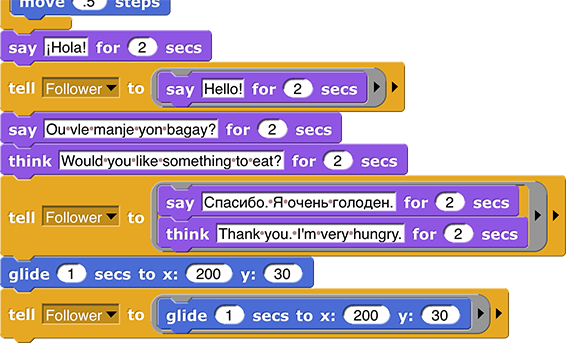
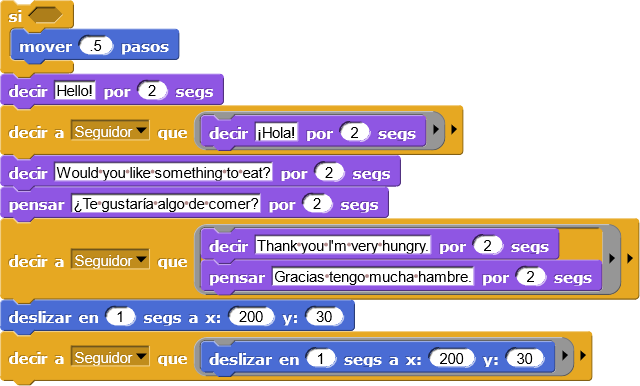
Espanol: Madelen translated Unit 1, Lab 5, Pages 1 & 2

diff --git a/cur/programming/1-introduction/5-follow-the-leader/2-sprite-interaction.es.html b/cur/programming/1-introduction/5-follow-the-leader/2-sprite-interaction.es.html
@@ -6,7 +6,7 @@
 		<script type="text/javascript" src="/bjc-r/utilities/gifffer.min.js"></script>
 		<script type="text/javascript">window.onload = function() {Gifffer();}</script>
         <link rel="stylesheet" type="text/css" href="/bjc-r/css/bjc-gifffer.css">
-        <title>Unidad 1 Lab 5: Siguiendo al Leader, Página 2</title>
+        <title>Unidad 1 Lab 5: Siguiendo al Líder, Página 2</title>
 	</head>
 
 	<body>
@@ -23,12 +23,12 @@
         <div class="forYouToDo" id="first">
             <ol>
 				<li>
-                    Cambie el código de <strong>Follower</strong> para que apunte hacia <strong>Leader</strong> solo hasta que toque <strong>Leader</strong>. (Las siguientes instrucciones muestran cómo).
+                    Cambie el código de <strong>Seguidor</strong> para que apunte hacia <strong>Líder</strong> solo hasta que toque <strong>Líder</strong>. (Las siguientes instrucciones muestran cómo).
 					  <ol>
-                    	<li>Seleccione <strong>Follower</strong> haciendo clic en su botón debajo del escenario.</li>
-                        <li>Reemplace el bloque <code>forever</code> con un bloque <code>repeat until</code>.</li>
+                    	<li>Seleccione <strong>Seguidor</strong> haciendo clic en su botón debajo del escenario.</li>
+                        <li>Reemplace el bloque <code>por siempre</code> con un bloque <code>repetir hasta que</code>.</li>
                         <li>
-                        	Arrastre <img src="/bjc-r/img/blocks/touching.es.png" alt="touching ()?" title="tocando ()?"> en el espacio hexagonal en el bloque <code>repetir until</code>. Configúrelo para que se repita hasta que <code>touching</code> <strong>Leader</strong>.<br />
+                        	Arrastre <img src="/bjc-r/img/1-introduction/touching.es.png" alt="touching ()?" title="tocando ()?"> en el espacio hexagonal en el bloque <code>repetir hasta que</code>. Configúrelo para que se repita hasta que esté <code>tocando</code> <strong>Líder</strong>.<br />
                             <div class="endnote">
                                 <div class="commentBig">Video needs to be rebuilt with new sprite names. --MF, 8/19/19</div>
                                 <a href="#hint-touching" data-toggle="collapse" title="Click for a video of this code being built.">Haga clic para ver un video de este código en construcción.</a>
@@ -39,19 +39,19 @@
                         </li>
                     </ol>
                 </li>
-				<li>Haz lo mismo con <strong>Leader</strong>. Cambie su código para seguir su mouse solo hasta que esté <code>tocando</code> <strong>Follower</strong>.</li>
+				<li>Haz lo mismo con <strong>Líder</strong>. Cambie su código para seguir su ratón solo hasta que esté <code>tocando</code> <strong>Seguidor</strong>.</li>
                 <li>Pruebe su programa para ver si hace lo que quiere:
                 	<ul>
-                    	<li>Al hacer clic en <img src="/bjc-r/img/1-introduction/green-flag_button.es.png" style="height:1.6em;" alt="botón de bandera verde" title="botón de bandera verde"/>, <strong>Leader</strong> (el gris) debe seguir su mouse y <strong>Follower</strong> debe seguir girando hacia la cara <strong>Leader</strong>.</li>
-                        <li>Si acercas a <strong>Leader</strong> lo suficiente como para tocar a <strong>Follower</strong>, ambos sprites deberían dejar de moverse.</li>
+                    	<li>Al hacer clic en <img src="/bjc-r/img/1-introduction/green-flag_button.es.png" style="height:1.6em;" alt="botón de bandera verde" title="botón de bandera verde"/>, <strong>Líder</strong> (el gris) debe seguir su ratón y <strong>Seguidor</strong> debe seguir girando hacia la cara <strong>Líder</strong>.</li>
+                        <li>Si acercas a <strong>Líder</strong> lo suficiente como para tocar a <strong>Seguidor</strong>, ambos sprites deberían dejar de moverse.</li>
                     </ul>
                 </li>
                 <li>
-                	Hasta ahora, <strong>Follower</strong> <em>apunta</em> hacia <strong>Leader</strong>, pero no <em>se mueve</em> hacia él.
+                	Hasta ahora, <strong>Seguidor</strong> <em>apunta</em> hacia <strong>Líder</strong>, pero no <em>se mueve</em> hacia él.
                     <ol>
                         <li>
-                            Agregue una línea de código a la secuencia de comandos de <strong>Follower</strong> para que persiga a <strong>Leader</strong>. Aquí está la idea:<br />
-                            <div class="sidenote">Rellene el espacio de entrada en el bloque <code>mover</code> con un número pequeño para que <strong>Follower</strong> no atrape a <strong>Leader</strong> demasiado rápido.</div>
+                            Agregue una línea de código a la secuencia de comandos de <strong>Seguidor</strong> para que persiga a <strong>Líder</strong>. Aquí está la idea:<br />
+                            <div class="sidenote">Rellene el espacio de entrada en el bloque <code>mover</code> con un número pequeño para que <strong>Seguidor</strong> no atrape a <strong>Líder</strong> demasiado rápido.</div>
                             <img class="indent" src="/bjc-r/img/1-introduction/move-tiny.es.png" alt="when green flag clicked:
 repeat until (touching (Leader)?)
 {
@@ -80,19 +80,19 @@ repeat until (touching (Leader)?)
         <div class="examFullWidth">
             <div class="comment">AAP-2.K.3</div>
             <div class="sidenoteBig">
-                <div class="pseudop">El lenguaje utilizado en el examen AP no permite espacios en los nombres de las entradas (como <var>número de peces</var>) o en los procedimientos definidos por el programador (como <code>mouse y</code>, que no está integrado en su idioma). Así que este ejemplo los traduce a <pre class="inline">numFish</pre> y <pre class="inline">MouseY()</pre>.</div>
-                <div class="pseudop">El motivo de <pre class="inline">()</pre> o cuadro después de <pre class="inline">MouseY</pre> es que <pre class="inline">MouseY()</pre > es una llamada de procedimiento a pesar de que no toma ninguna entrada. </div>
+                <div class="pseudop">El lenguaje utilizado en el examen AP no permite espacios en los nombres de las entradas (como <var>número de peces</var>) o en los procedimientos definidos por el programador (como <code>ratón y</code>, que no está integrado en su idioma). Así que este ejemplo los traduce a <pre class="inline">numPeces</pre> y <pre class="inline">RatónY()</pre>.</div>
+                <div class="pseudop">El motivo de <pre class="inline">()</pre> o cuadro después de <pre class="inline">RatónY</pre> es que <pre class="inline">RatónY()</pre > es una llamada de procedimiento a pesar de que no toma ninguna entrada. </div>
             </div>
             <p>
                 La secuencia de comandost<br/>
                 <img class="indent" src="/bjc-r/img/1-introduction/example-repeat-until.es.png" alt="repeat until (mouse y < 0) {say (number of fish)}" title="repeat until (mouse y < 0) {say (number of fish)}" /><br />
                 se escribiría como<br />
                 <div class="commentBig">I worry that the mouse Y procedure call block formatting might be wrong because we don't yet know what the correct APblocktran form of a procedure call will be. Waiting for the new exam reference sheet. --MF, 3/1/19<p>TODO: change mouseY() to camelCase <em>and</em> edit image to use a box instead of () after mouseY. --MF, 8/27/19</p></div>
-                <div class="pre-container indent"><pre>REPETIR UNTIL (MouseY() &lt; 0)
+                <div class="pre-container indent"><pre>REPETIR HASTA QUE (RatónY() &lt; 0)
 {
-    DISPLAY(numFish)
+    DISPLAY(numPeces)
 }</pre></div>
-                or
+                o
                 <img class="inline" src="/bjc-r/img/1-introduction/repeat-until-blocktran.es.png" alt="a gray rounded rectangle containing all of the following: on the first line, first the words 'REPEAT UNTIL' in all caps and then a smaller gray rounded rectangle containing 'MouseY () &lt; 0' and on the second line, a white rounded rectangle with a smaller white rounded rectangle inside that contains first the word 'DISPLAY' in all caps and then a smaller white rectangle containing 'numFish'" title="a gray rounded rectangle containing all of the following: on the first line, first the words 'REPEAT UNTIL' in all caps and then a smaller gray rounded rectangle containing 'MouseY () &lt; 0' and on the second line, a white rounded rectangle with a smaller white rounded rectangle inside that contains first the word 'DISPLAY' in all caps and then a smaller white rectangle containing 'numFish'" />
             </p>
             <p>Recuerda, no necesitas aprender a escribir el idioma inventado que se usa en el examen AP. Solo tienes que ser capaz de leer y responder preguntas al respecto.</p>
@@ -103,8 +103,8 @@ repeat until (touching (Leader)?)
 				<li>Pruebe su programa varias veces. </li>
             	<img class="inline" src="/bjc-r/img/icons/pair-programming-swap.es.png" alt="Pair Programming Swap" title="Pair Programming Swap" />
                 <li>
-                	<p>En este momento, cuando los duendes se encuentran, simplemente se detienen. Haz que tengan una conversación cuando se detengan. Puede hacerlo agregando un código como este a la secuencia de comandos de <strong>Leader</strong>. Invente su propia conversación. Puede utilizar cualquier idioma que pueda escribir.</p>
-                    <div class="sidenoteBig"><strong>Leader</strong> hace las cosas por sí mismo. También le dice a <strong>Follower</strong> qué hacer y cuándo hacerlo. Este código pone a <strong>Leader</strong> a cargo de <strong>Follower</strong>.</div>
+                	<p>En este momento, cuando los duendes se encuentran, simplemente se detienen. Haz que tengan una conversación cuando se detengan. Puede hacerlo agregando un código como este a la secuencia de comandos de <strong>Líder</strong>. Invente su propia conversación. Puede utilizar cualquier idioma que pueda escribir.</p>
+                    <div class="sidenoteBig"><strong>Líder</strong> hace las cosas por sí mismo. También le dice a <strong>Seguidor</strong> qué hacer y cuándo hacerlo. Este código pone a <strong>Líder</strong> a cargo de <strong>Seguidor</strong>.</div>
                     <div class="vocab">
                         <div class="todo">CRD-2.B.2, AAP-2.B.2, AAP-2.B.6</div>
                         <p>Un <strong>segmento de código</strong> es una secuencia de instrucciones conectadas que llevan a cabo una acción determinada, como la que se muestra a la izquierda, que anima una conversación. Las instrucciones en el segmento de código se llevan a cabo en orden, de arriba a abajo.</p>

diff --git a/cur/programming/1-introduction/5-follow-the-leader/1-following-sprites.es.html b/cur/programming/1-introduction/5-follow-the-leader/1-following-sprites.es.html
@@ -10,11 +10,11 @@
     </head>
     
 	<body>    
-		<h2>Sprite siguiendo al ratón</h2>
+		<h2>Sprite Siguiendo al Ratón</h2>
         <div class="learn">
             <p>En muchos programas, los elementos visuales en la pantalla deben interactuar: seguirse, evitarse, reaccionar de cierta manera cuando se encuentran, etc. <strong>En esta práctica de laboratorio</strong>, programará <em >dos</em> sprites. Un sprite seguirá a tu ratón. El otro sprite perseguirá al primero. Cuando se reúnan, tendrán una breve conversación.</p>
             <img class="indent" data-gifffer="/bjc-r/img/1-introduction/leader-follower-animation.gif" alt="animation of a cartoon tiger chasing a cartoon bat that is following the mouse pointer" title="animation of a cartoon tiger chasing a cartoon bat that is following the mouse pointer"/>
-            <p><strong>En esta página,</strong> programarás el primer sprite para que siga a tu mouse y programarás el segundo sprite para que apunte en la dirección del primer sprite en preparación para seguirlo.</p>
+            <p><strong>En esta página,</strong> programarás el primer sprite para que siga a tu ratón y programarás el segundo sprite para que apunte en la dirección del primer sprite en preparación para seguirlo.</p>
         </div>
 		
 		<div class="atwork">
@@ -23,25 +23,28 @@
 			<p><a href="https://www.lanacion.com.ar/tecnologia/los-20-latinos-mas-influyentes-en-tecnologia-de-2017-segun-cnet-nid2066888/" title="Article: Los 20 Latinos Más Influyentes en Tecnología" target="_blank">Article: Los 20 Latinos Más Influyentes en Tecnología</a> (<a href="https://www-lanacion-com-ar.translate.goog/tecnologia/los-20-latinos-mas-influyentes-en-tecnologia-de-2017-segun-cnet-nid2066888/?_x_tr_sl=es&_x_tr_tl=en&_x_tr_hl=en&_x_tr_pto=wapp" title="Article: The 20 most influential Latinos in technology" target="_blank">English</a>)</p>
 		</div>
         
-        <h3>Siguiendo al raton</h3>
+        <h3>Siguiendo al Ratón</h3>
 		<div class="forYouToDo" id="first">
 			<ol>
-				<li>
-                    <div class="newProject"><span class="text">"U1L5-SpriteChase"</span><img src="/bjc-r/img/icons/new-project-called.es.png" alt="Create a new project called U1L5-SpriteChase" title="Create a new project called U1L5-SpriteChase" /></div>
+				<li> 
+                    <!--just changed <span></span> to be indented -->
+                    <div class="newProject"><span style="text-indent: 94px;" class="text">"U1L5-SpriteChase"</span><img src="/bjc-r/img/icons/new-project-called.es.png" alt="Create a new project called U1L5-SpriteChase" title="Create a new project called U1L5-SpriteChase" /></div>
                     <div class="narrower">
-                        <h4><strong>Creación de un nuevo proyecto Snap<em>!</em></strong></h4>
+                        <h4><strong>Creación de un Nuevo Proyecto Snap<em>!</em></strong></h4>
                         <ol style="list-style-type:lower-alpha">
                             <li>
                                 Abre <a href="https://snap.berkeley.edu/run" title="Snap!" target="_blank">Snap<em>!</em></a>.
                                 <div class="endnote">
                                     Si ya tiene Snap<em>!</em> abierto y hay un proyecto abierto, siga estos pasos primero:
                                     <ol style="list-style-type:lower-roman">
+                                        <!-- TODO: -->
                                         <li>Si es necesario, ¡guarde su trabajo abierto en Snap<em>!</em>.</li>
                                         <li>Elija "Nuevo" en el Snap<em>!</em> Menú Archivo, <img src="/bjc-r/img/1-introduction/file_button.es.png" alt="File menu button" title="File menu button"/>.</li>
                                         <li>Haga clic en "Sí" para abrir un nuevo proyecto (y cierre el que está abierto).</li>
                                     </ol>
                                 </div>
                             </li>
+                            <!-- TODO: -->
                             ¡Elige "Guardar como..." del Snap<em>!</em> Menú Archivo, <img src="/bjc-r/img/1-introduction/file_button.es.png" alt="File menu button" title="File menu button"/>.</li>
                             <li>Escriba el nombre del proyecto.</li>
                             <li>Haga clic en el botón "Guardar".</li>
@@ -54,7 +57,7 @@
                     <img class="indent" src="/bjc-r/img/1-introduction/follow-that-mouse.es.png" alt="when green flag clicked{forever{go to x:(mouse x) y:(mouse y)}}" title="when green flag clicked{forever{go to x:(mouse x) y:(mouse y)}}" />
                 </li>
                 <li>
-                    Ahora crea el script y ejecútalo. Mueva el mouse por el escenario mientras se ejecuta el programa. ¿Qué hace el bloque <code>siempre</code>?
+                    Ahora crea el script y ejecútalo. Mueva el ratón por el escenario mientras se ejecuta el programa. ¿Qué hace el bloque <code>siempre</code>?
                     <div class="endnote">
                         Para <em>detener</em> su secuencia de comandos, haga clic en la señal roja de alto: <img class="button" src="/bjc-r/img/1-introduction/stop_button.es.png" style="height:1.9em;" alt="stop button" title="stop button"/>
                     </div>
@@ -64,7 +67,7 @@
 		</div>
         
         
-        <h3>Programando un segundo sprite</h3>        
+        <h3>Programando un Segundo Sprite</h3>        
         <div class="forYouToDo">
 			<ol start="5">
 		        <li> 
@@ -74,7 +77,7 @@
                 <li>
                     Para que los nombres de sus sprites sean significativos, cambie el nombre de <strong>Sprite</strong> a <strong>Líder</strong> y cambie <strong>Sprite(2)</strong> a <strong>Seguidor</strong>.
                     <div class="narrower">
-                        <h4><strong>Cambiar el nombre de un sprite</strong></h4> 
+                        <h4><strong>Cambiar el Nombre de un Sprite</strong></h4> 
                         <p>
                             Busque el nombre en un cuadro gris sobre el área de secuencias de comandos. Haz clic dentro del nombre y podrás editarlo.<br />
                             <img class="indent" src="/bjc-r/img/1-introduction/change-sprite-name.jpg" alt="image of sprite name input field above the scripting area and below the project name" title="image of sprite name input field above the scripting area and below the project name" />
@@ -84,13 +87,13 @@
                 <li> 
                     <div class="sidenoteBig">Mientras se ejecuta un script, su borde se ilumina. Si el tiempo de ejecución es corto, es posible que no note el breve parpadeo. </div>
                 	Asegúrate de tener seleccionado el sprite <strong>Seguidor</strong>. Escriba un guión para <strong>Seguidor</strong> de modo que una vez que se haga clic en la bandera verde, apunte hacia <strong>Líder</strong> <code>para siempre</code>.<br />
-                    <img class="indent" src="/bjc-r/img/blocks/point-towards.es.png" alt="point towards []" title="point towards []" />
+                    <img class="indent" src="/bjc-r/img/1-introduction/point-towards.es.png" alt="point towards []" title="point towards []" />
                 </li>
                 <li>
     				<div class="sidenoteBig">Ambos sprites tienen scripts que usan <img class="inline" src="/bjc-r/img/blocks/when-green-flag-clicked-full-size.es.png" alt="When 'Green Flag' Clicked" title="When 'Green Flag' Clicked" />, entonces <em>ambos</em> de esos scripts se ejecutan cuando<img src="/bjc-r/img/1-introduction/green-flag_button.es.png" style="height:1.9em;" alt="green-flag button" title="green-flag button"/> se hace clic.</div>
                     Presióne <img src="/bjc-r/img/1-introduction/green-flag_button.es.png" style="height:1.9em;" alt="green-flag button" title="green-flag button"/> y verifique que sus scripts hagan lo que pretendía:
                     <ul> 
-                        <li><strong>El líder</strong> siempre sigue a su mouse cuando lo mueve.</li>
+                        <li><strong>El líder</strong> siempre sigue a su ratón  cuando lo mueve.</li>
                         <li><strong>Seguidor</strong> permanece en un lugar, pero siempre apunta hacia <strong>Líder</strong>.</li>
                     </ul>
 				</li>
